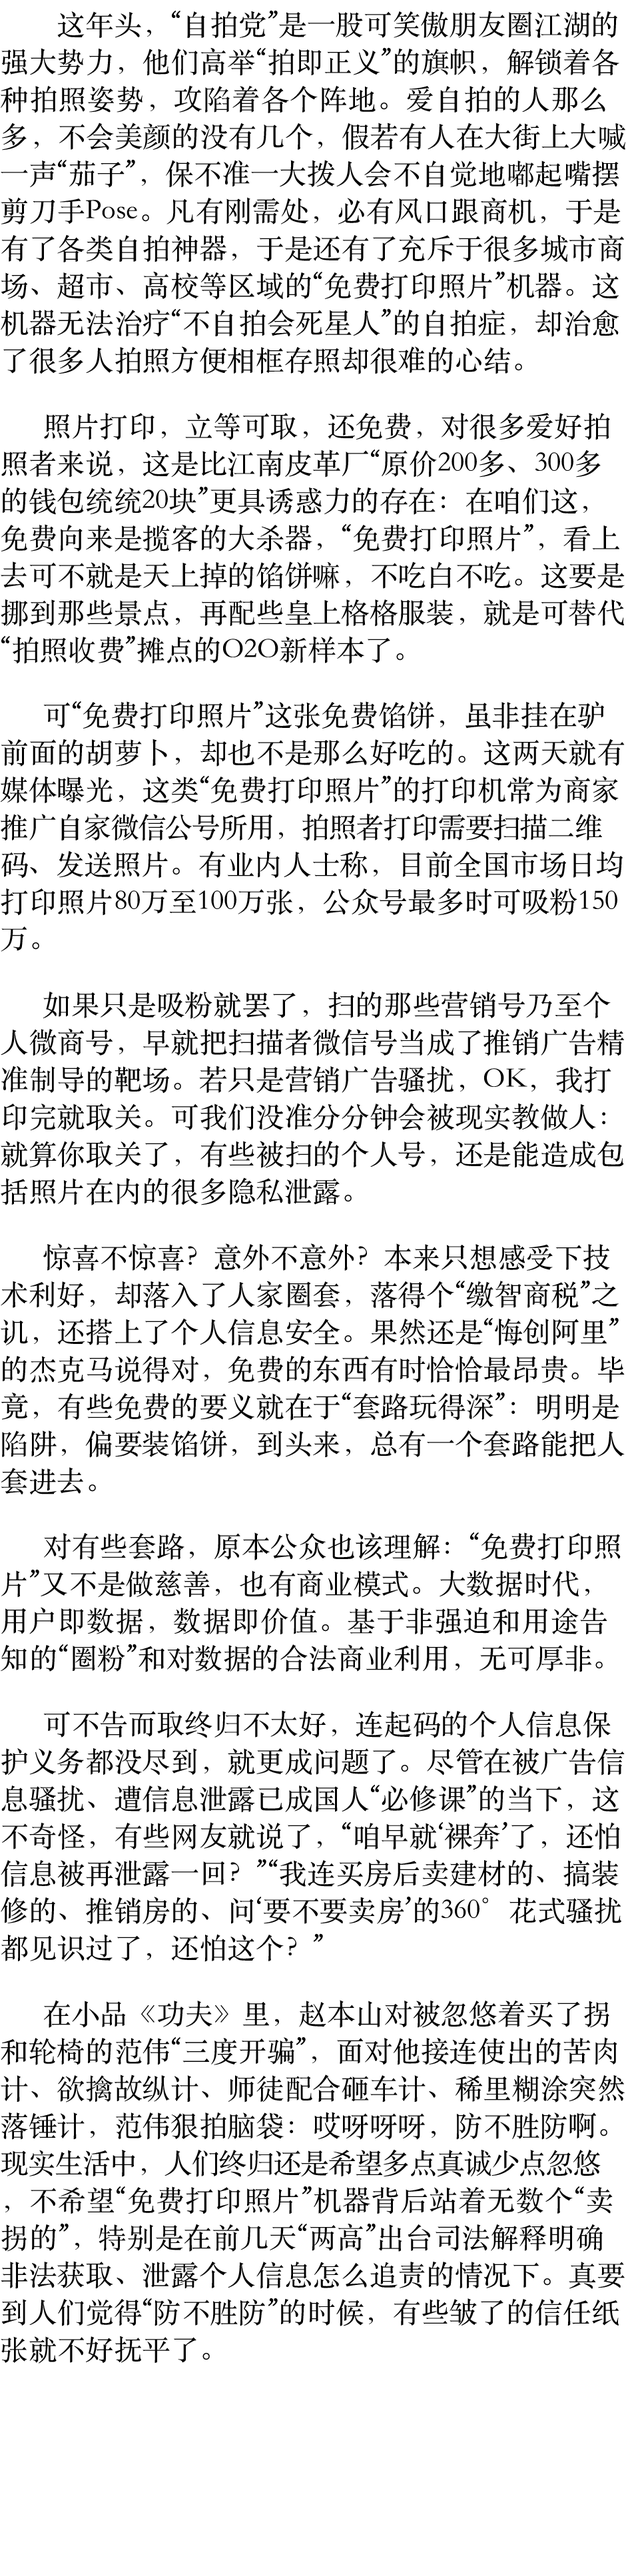
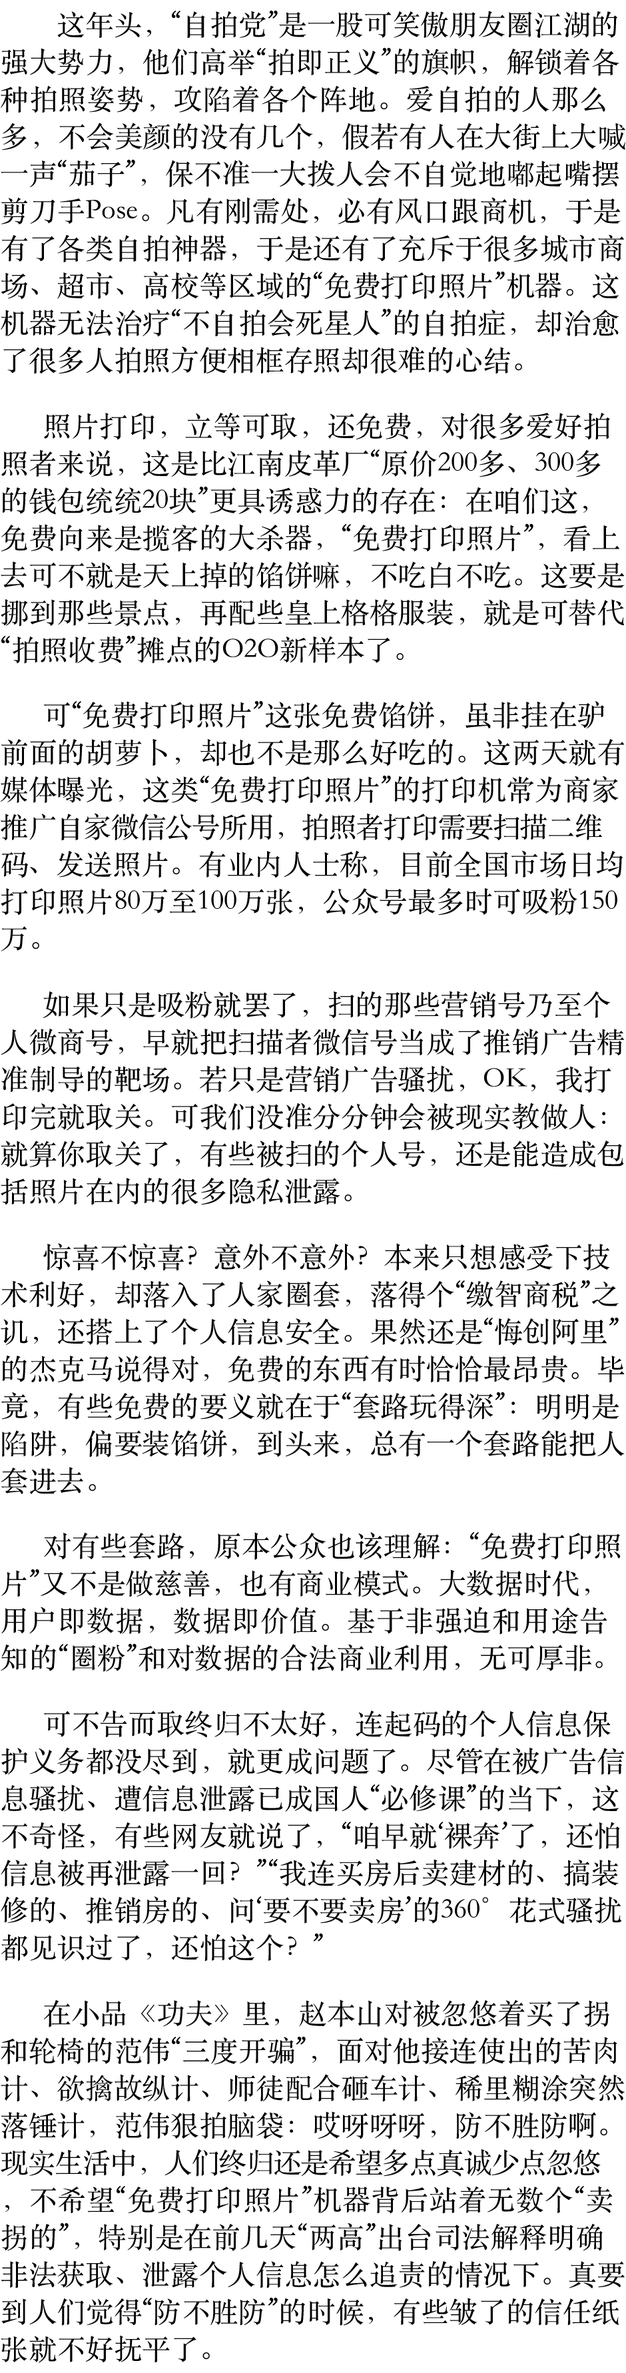
large

Changed region(s): [[0.0, 0.0, 1.0, 0.9966]]

diff --git a/Large-Hei.html b/Large-Hei.html
@@ -4,7 +4,7 @@
 <title>Large-Hei</title>
 <style type="text/css">
 .content{
-    text-indent: 32px;
+    text-indent: 36px;
 }
 p{
     font-size: 18px;
